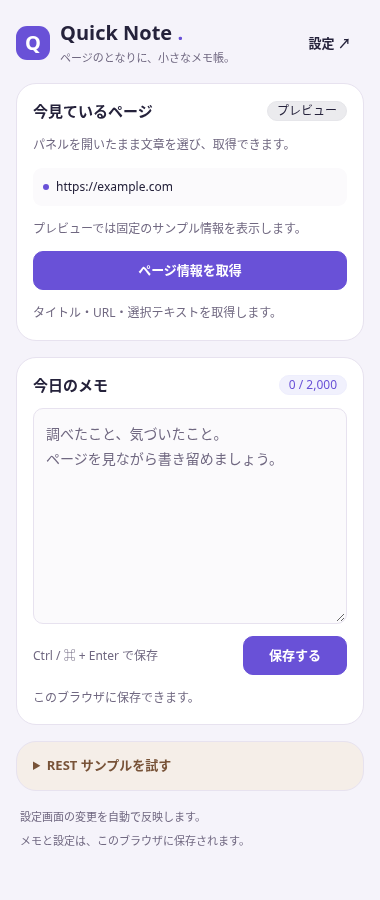
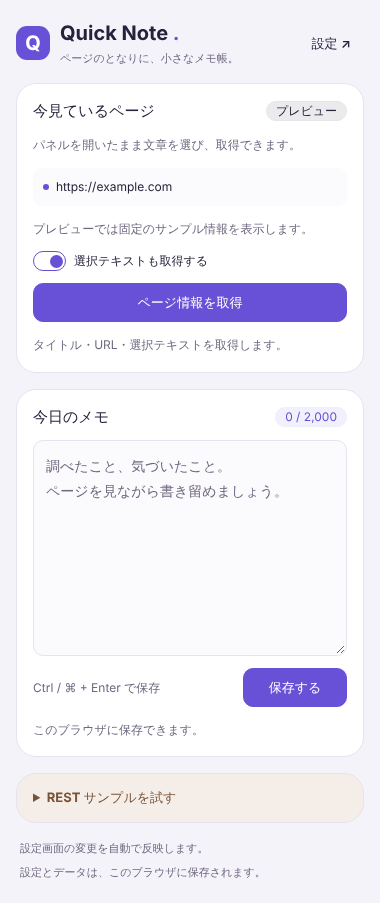
docs: describe the base/sample split, removal, and E2E tests
Add a samples guide covering what is base and what is sample, the
@sample markers, removal, and verification. Update the README, agent
rules, and the architecture, UI, testing, CI, worker, sidepanel, and
extension guides for per-feature composition, screen frames with
sections, the page-owned selection preference, and opt-in E2E tests.
Retake the screenshots for the restructured screens.

Claude-Session: https://claude.ai/code/session_01CSVaaq8deYdAhhhsQ6WPZL

diff --git a/AGENTS.md b/AGENTS.md
@@ -16,6 +16,8 @@
 - Use TypeScript and SolidJS components with daisyUI / Tailwind CSS; do not add another UI framework without a request. Keep Solid inside `src/ui`: screens receive ports through props, and features, composition, and infrastructure stay framework-independent. Render external or page-derived text through JSX text, never `innerHTML`.
 - Put every user-visible string in `public/_locales/*/messages.json` (default locale `en`) and render it with `useI18n()`; keep keys and placeholders identical across locales. Features return reason codes, not UI text.
 - Register service worker listeners synchronously at the top level through `startWorker()` and keep no state in worker variables. Define worker messages as `MessageContract`s with both validators in the owning feature's gateway, register handlers and context menu items in `composition/worker.ts`, and never import `src/ui` into the worker.
+- Keep the base buildable without samples. List sample-only files in `scripts/samples.ts` and wrap every base-side reference to a sample in `@sample-begin` / `@sample-end` lines; run `pnpm run samples:verify` when changing samples or their wiring. Screen frames render feature sections passed as children by the entrypoint.
+- Assemble each feature once in `composition/<feature>.ts` and reuse it from screen and worker compositions. Feature-specific preferences belong to their feature, not to the base settings.
 - Keep popup and sidepanel HTML, CSS entries, and screen event handlers independent. Reuse feature ports/UseCases and themes, not the popup screen. Default commands and Actions build popup; sidepanel uses explicit commands and a separate output directory. Verify both variants when changing shared code or build configuration.
 - Preserve the hexagonal boundaries described in `docs/architecture.md`. UseCases describe sequential port calls; composition injects concrete implementations explicitly.
 - Group by ownership first (`features`, `integrations`, `infrastructure`), then by role. Within a feature, use `controllers` for inbound adapters, `use-cases` for sequences, and `gateways` for outbound adapters. Avoid redundant directory layers and repeating parent context in filenames.
@@ -24,6 +26,7 @@
 - Validate external responses in their client/gateway and stored data in the persistence gateway. Do not reuse controller input schemas at other boundaries. Reuse domain invariants only when they are properties of the same model across entry paths.
 - Place provider contracts/clients in `integrations`, reusable technical implementations in `infrastructure`, and feature-specific conversion/persistence in that feature's gateways. Generic modules must not import features.
 - UI screens depend on public ports, not concrete controllers or UseCases. Storage contracts require both save Input and load Output validators. Keep generic infrastructure tests independent of feature contracts.
+- Keep real-extension E2E tests opt-in under `tests/e2e` (`pnpm run test:e2e`); base flows there must not depend on sample copy, and sample flows go in `tests/e2e/samples/`.
 - Use Vitest for input/output contracts and observable errors or persisted results. Avoid tests tied to internal call counts, fine-grained execution order, or DOM snapshots.
 - As a base repository, keep default tests focused on reusable validation, HTTP/storage contracts, and build artifacts. Do not fix sample-specific fields, copy, limits, or API payloads in tests unless requested. Derived products can add tests for their own behavior. Run artifact tests after building; discover their entry paths from the manifest rather than fixing sample filenames.
 - Keep a small set of optional sample tests in `tests/examples/` as developer references. Begin each file with a comment instructing developers to learn from and then delete it when starting their own feature development. Exclude these examples from default test execution; run them explicitly with `pnpm run test:examples` when editing them. They remain typechecked until deleted along with the sample they import.

diff --git a/docs/samples.md b/docs/samples.md
@@ -1,0 +1,60 @@
+# サンプルと、ベースだけにする手順
+
+このリポジトリは、拡張開発のベースに参考用のサンプルを載せた構成です。
+サンプルは仕組みの使い方を示すためのもので、派生製品では消してから自分の機能を作る想定です。
+
+## ベースとサンプルの分担
+
+| 区分 | 内容 |
+| --- | --- |
+| ベース | 起動点と画面の枠（ポップアップ・サイドパネル・設定画面）、テーマの設定、service worker の起動と登録の仕組み、メッセージ通信・右クリックメニュー・多言語化・保存・HTTP の基盤、検証の仕組み、ビルドと配布物のテスト、E2E の補助 |
+| サンプル | メモ（保存・REST の取り込み・右クリックからの追加・他画面への追従）、ページ取得（選択テキストの取得の設定を含む）、サイドパネルのサイト単位の許可、`tests/examples/` と `tests/e2e/samples/` の参考テスト |
+
+画面の枠は、起動点が配置した機能の部品を表示します。部品が一つもないときは「ここに機能を追加します」と表示します。
+機能の組み立ては `composition/<機能>.ts` にまとめ、画面と worker の両方から使います。
+
+## サンプルの印
+
+サンプルだけのファイルは `scripts/samples.ts` の `SAMPLE_PATHS` に一覧があります。
+ベースのファイルの中でサンプルを接続している部分は、次の印で囲んでいます。
+
+```ts
+// @sample-begin
+import { createNoteScreens } from "./notes";
+// @sample-end
+```
+
+JSX では `{/* @sample-begin */}`、CSS では `/* @sample-begin */`、YAML では `# @sample-begin` の形です。
+印は行単位で扱い、`@sample-begin` の行から `@sample-end` の行までを削除します。入れ子にはできません。
+印の外だけでビルドと型チェックが通るように、import・プロパティ・文を丸ごと囲んでください。
+
+## ベースだけにする
+
+```sh
+pnpm run samples:remove
+pnpm run check
+pnpm run check:sidepanel
+```
+
+`samples:remove` は次を行います。未コミットの変更があるときは止まります（`--force` で続行）。
+
+- サンプルのファイルと、印で囲んだ部分を削除する。
+- manifest からサンプル用の権限（`activeTab`・`scripting`・`contextMenus`）と SampleAPIs の host permission を削除する。
+  サイドパネル版の `tabs`・`optional_host_permissions` は `vite.config.ts` の印の中にあり、一緒に消えます。
+- `package.json` からサンプル用のスクリプト（`test:examples`・`samples:remove`・`samples:verify`）を削除する。
+- 残ったコードと manifest が参照しない文言を `_locales` から削除する。
+- CI の「サンプルなしの検証」の手順と、このスクリプト自身を削除する。
+
+削除後に残るのは、テーマを切り替えられる空の画面、何も登録していない worker、ベースのテストです。
+ドキュメントにはサンプルの説明が残るので、不要な節は自分で整理してください。
+`docs/screenshots/` もサンプル入りの画面なので、自分の画面で撮り直してください。
+
+## サンプルを変更するときの確認
+
+```sh
+pnpm run samples:verify
+```
+
+作業ツリーを一時フォルダーに複製し、そこでサンプルを削除してから `check` と `check:sidepanel` を実行します。
+元の作業ツリーは変更しません。CI もポップアップ版の実行でこの確認を行い、サンプルを消してもベースが壊れないことを保証します。
+サンプルを足すときは、ファイルを `SAMPLE_PATHS` に加えるか、ベースとの接続部分を印で囲んでください。

diff --git a/docs/ui.md b/docs/ui.md
@@ -13,8 +13,9 @@ src/ui/
 │   ├── popup.tsx                 CSS 読み込み・DI・render
 │   └── options.tsx               設定画面の起動と表示方式ごとの文言
 ├── screens/popup/
-│   ├── popup.tsx                 画面のマークアップ・UI イベント・表示状態
-│   └── popup.css                 この画面だけの調整
+│   ├── popup.tsx                 画面の枠。テーマの反映と、配置された機能の部品の表示
+│   ├── note.tsx / page.tsx       サンプルの部品（メモと REST、ページ取得）
+│   └── popup.css                 この画面だけの調整。サンプルの部品の分は印で囲む
 ├── screens/options/              設定フォーム・確認ダイアログ・CSS
 ├── settings.ts                   テーマ適用と設定通知への接続（フレームワーク非依存）
 ├── live.ts                       購読してから読み出す共通処理（設定・メモの追従）
@@ -25,6 +26,7 @@ src/ui/
 ├── components/
 │   ├── action-button.tsx         disabled・ローディング・aria-busy
 │   ├── feedback.tsx              状態に応じたメッセージ表示
+│   ├── empty-state.tsx           機能の部品がないときの表示
 │   └── feedback.css              状態表示の見た目
 └── styles/
     ├── app.css                   CSS エントリーと Tailwind / daisyUI 登録
@@ -40,6 +42,8 @@ src/ui/
 ポップアップのヘッダーは小さくまとめ、操作部は折り返し可能にし、ボタンは文字に応じて高さが伸びます。
 設定画面は通常のタブとして幅を可変にします。
 新しい画面を作るときは `screens/<画面名>/` を追加し、必要なら entrypoint と Vite の入力を追加します。
+既存の画面に機能を足すときは、`screens/<画面名>/<機能>.tsx` に部品を作り、起動点で画面の枠の子として配置します。
+画面の枠は部品の中身を知らず、部品が一つもなければ空の表示を出します。
 画面内でしか使わない UI を、無理に共有 components へ移す必要はありません。
 
 ## 依存方向

diff --git a/docs/screenshots/README.md b/docs/screenshots/README.md
@@ -4,9 +4,9 @@
 - `popup-dark.png`: ダークテーマの初期表示。
 - `options-light.png` / `options-dark.png`: 設定画面の初期表示。
 - `sidepanel-light.png` / `sidepanel-dark.png`: サイドパネル用画面の初期表示。
-- 取得日: 2026-11-01（日本時間）。
+- 取得日: 2026-11-04（日本時間）。
 - 対象: `pnpm run build:popup` / `pnpm run build:sidepanel` で生成した `dist/popup/` / `dist/sidepanel/` のブラウザプレビュー。
-- ブラウザ: Chromium 154.0.8037.57、デバイススケール 1。
+- ブラウザ: Chromium 153.0.8010.12、デバイススケール 1。
 - ポップアップは文書幅 384 CSS px、高さ上限 600 px の body。設定画面は幅 1100 px の全ページ。
 - サイドパネルは幅 380 px、高さ 900 px の viewport で全ページを撮影。Chrome のサイドパネル枠そのものの撮影ではありません。
 - 保存データがない新しいブラウザコンテキストを使用し、初期読み込み完了後の body を撮影。

diff --git a/docs/ci.md b/docs/ci.md
@@ -18,6 +18,8 @@ Node.js は `.nvmrc`、pnpm は `package.json` の `packageManager` に合わせ
 `pnpm install --frozen-lockfile` の後に、既定では `pnpm run check`、
 サイドパネル選択時は `pnpm run check:sidepanel` を実行します。
 `tests/examples/` の参考テストは実行しませんが、残っているファイルの型はチェックします。
+ポップアップ版の実行では `pnpm run samples:verify` も行い、サンプルを削除した状態でもベースのビルドとテストが通ることを確認します。
+実際の拡張での E2E テスト（`pnpm run test:e2e`）は CI では実行しません。
 
 ## ZIP を取得して Chrome で確認する
 
